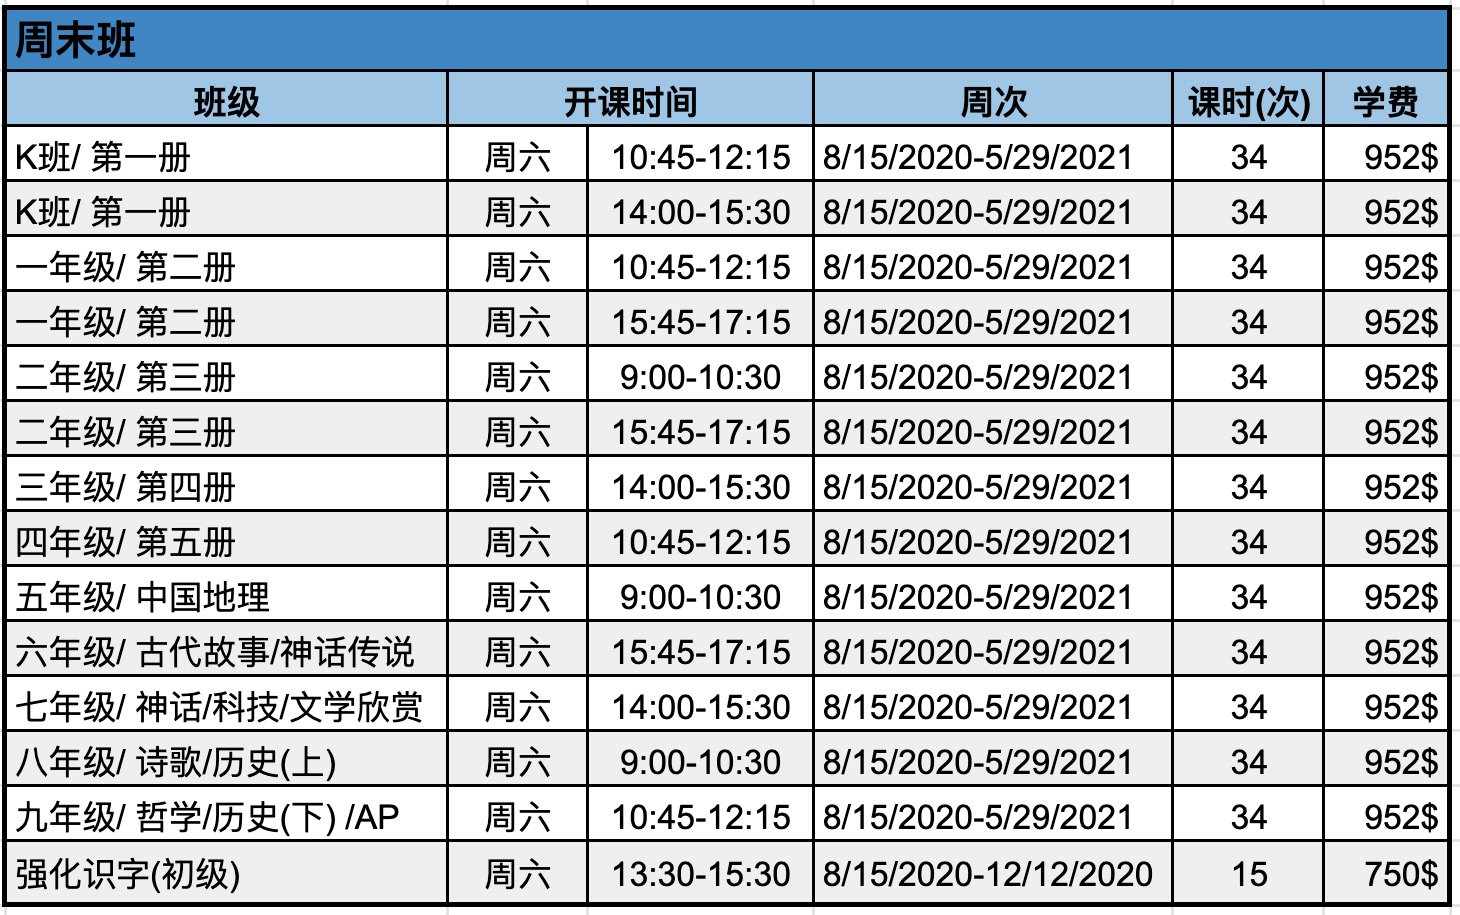
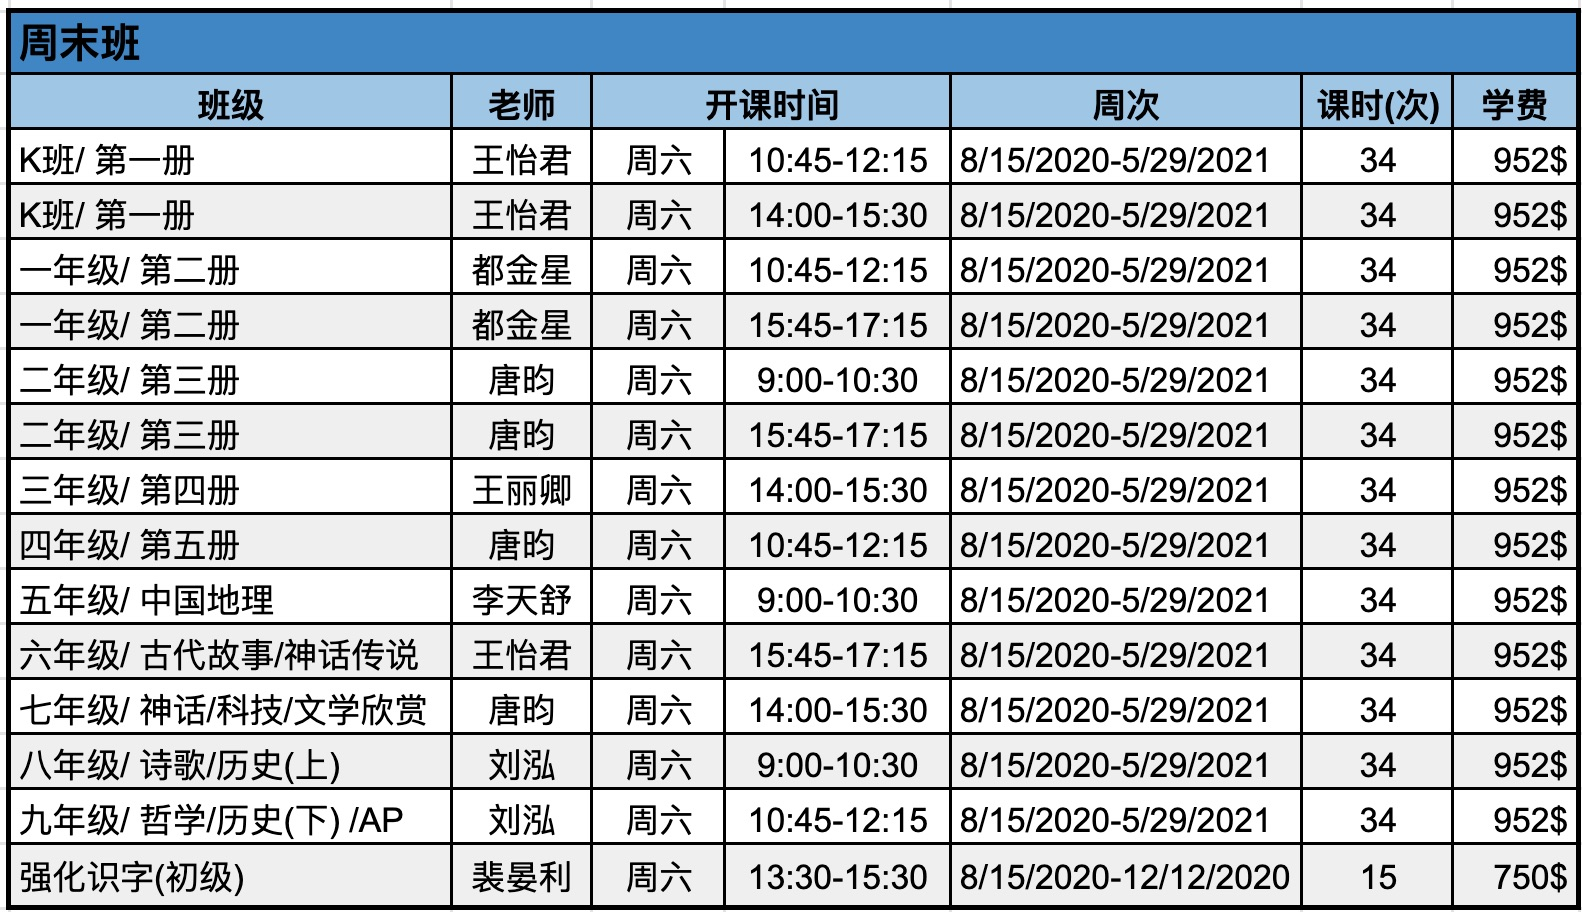
AddTeacherInfoInSchedule
Add teacher information in 2020-2021 chinese class schedule

diff --git a/about.html b/about.html
@@ -426,7 +426,7 @@
 						</div>
 						<div class="member-details">
 							<h3>王丽卿</h3>
-							<p>课后班、中文课老师</p>
+							<p>中文课老师</p>
 							<div class="member-social-bookmark">
 								<ul>
 									<p><a href="#" data-toggle="modal" data-target="#wangliqingModal">Readmore</a></p>
